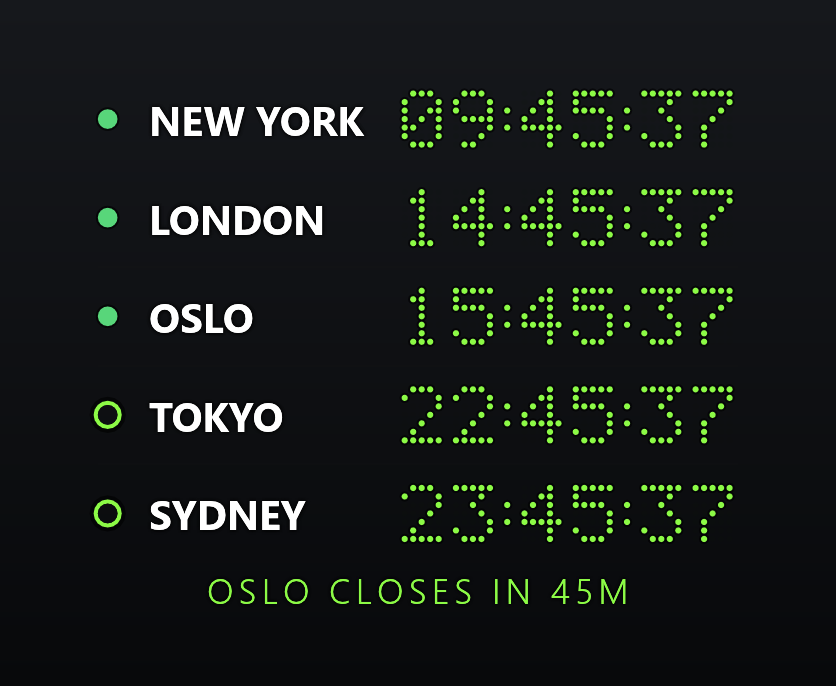
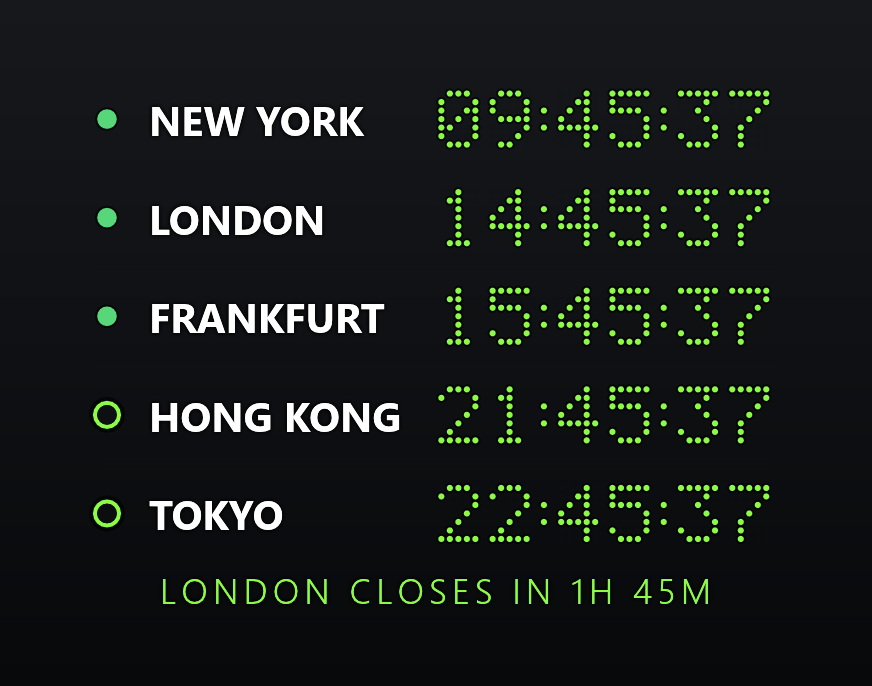
market: Default to the largest exchanges
Show New York, London, Frankfurt, Hong Kong and Tokyo on a new board.
Oslo and Sydney remain available from the Exchanges menu. The market
tests now use a fixed board of their own, so they no longer change
with the default.

diff --git a/src/market.rs b/src/market.rs
@@ -44,8 +44,8 @@ impl Market {
         Self::Tokyo,
         Self::Sydney,
     ];
-    /// One row per continent that trades.
-    pub const DEFAULT: [Self; 5] = [Self::NewYork, Self::London, Self::Oslo, Self::Tokyo, Self::Sydney];
+    /// The largest exchanges across the trading day, west to east.
+    pub const DEFAULT: [Self; 5] = [Self::NewYork, Self::London, Self::Frankfurt, Self::HongKong, Self::Tokyo];
 
     pub fn from_id(id: &str) -> Option<Self> {
         Self::ALL.into_iter().find(|m| m.id().eq_ignore_ascii_case(id))
@@ -374,6 +374,9 @@ mod tests {
     use super::*;
     use chrono::NaiveDate;
 
+    /// A fixed board for the tests, so they do not follow changes to the default.
+    const BOARD: [Market; 5] = [Market::NewYork, Market::London, Market::Oslo, Market::Tokyo, Market::Sydney];
+
     fn at(y: i32, mo: u32, d: u32, h: u32, mi: u32) -> NaiveDateTime {
         NaiveDate::from_ymd_opt(y, mo, d).unwrap().and_hms_opt(h, mi, 0).unwrap()
     }
@@ -469,7 +472,7 @@ mod tests {
     /// is in the afternoon, Asia has closed, Sydney is past midnight.
     #[test]
     fn the_board_shows_each_market_in_its_own_time() {
-        let b = board(at(2026, 9, 18, 14, 0), &Market::DEFAULT, H24);
+        let b = board(at(2026, 9, 18, 14, 0), &BOARD, H24);
         let rows: Vec<(&str, &str, Status)> = b.rows.iter().map(|r| (r.label, r.time.as_str(), r.status)).collect();
         assert_eq!(
             rows,
@@ -488,16 +491,16 @@ mod tests {
     #[test]
     fn the_caption_names_the_soonest_event_across_the_board() {
         // 14:00 UTC Friday: London closes 15:30 UTC, Oslo 14:30 UTC, New York 20:00 UTC.
-        let b = board(at(2026, 9, 18, 14, 0), &Market::DEFAULT, H24);
+        let b = board(at(2026, 9, 18, 14, 0), &BOARD, H24);
         assert_eq!(b.caption, "OSLO CLOSES IN 30M");
         // 14:31 UTC: Oslo is done, London is next.
-        let b = board(at(2026, 9, 18, 14, 31), &Market::DEFAULT, H24);
+        let b = board(at(2026, 9, 18, 14, 31), &BOARD, H24);
         assert_eq!(b.caption, "LONDON CLOSES IN 59M");
         // Saturday: the earliest Monday open is 00:00 UTC, shared by Tokyo and
         // Sydney (AEST, no daylight time until October); the first row wins a tie.
-        let b = board(at(2026, 9, 19, 12, 0), &Market::DEFAULT, H24);
+        let b = board(at(2026, 9, 19, 12, 0), &BOARD, H24);
         assert_eq!(b.caption, "TOKYO OPENS IN 1D 12H");
-        let b = board(at(2026, 9, 20, 23, 0), &Market::DEFAULT, H24);
+        let b = board(at(2026, 9, 20, 23, 0), &BOARD, H24);
         assert_eq!(b.caption, "TOKYO OPENS IN 1H");
         let b = board(at(2026, 9, 20, 23, 0), &[Market::Sydney, Market::Tokyo], H24);
         assert_eq!(b.caption, "SYDNEY OPENS IN 1H");
@@ -539,15 +542,15 @@ mod tests {
     #[test]
     fn the_board_ticks_by_the_minute_unless_seconds_are_shown() {
         let t = at(2026, 9, 18, 14, 0).with_second(37).unwrap().with_nanosecond(250_000_000).unwrap();
-        assert_eq!(board(t, &Market::DEFAULT, H24).until_change, Duration::from_millis(22_750));
-        assert_eq!(board(t, &Market::DEFAULT, style(ClockFormat::H24, true)).until_change, Duration::from_millis(750));
+        assert_eq!(board(t, &BOARD, H24).until_change, Duration::from_millis(22_750));
+        assert_eq!(board(t, &BOARD, style(ClockFormat::H24, true)).until_change, Duration::from_millis(750));
     }
 
     /// With codes the rows and the caption both use them, so the caption
     /// never names a market in a way the board does not.
     #[test]
     fn codes_name_the_rows_and_the_caption_alike() {
-        let b = board(at(2026, 9, 18, 14, 0), &Market::DEFAULT, CODES);
+        let b = board(at(2026, 9, 18, 14, 0), &BOARD, CODES);
         let labels: Vec<&str> = b.rows.iter().map(|r| r.label).collect();
         assert_eq!(labels, vec!["NYSE", "LSE", "OSE", "TSE", "ASX"]);
         assert_eq!(b.caption, "OSE CLOSES IN 30M");

diff --git a/src/app.rs b/src/app.rs
@@ -1324,10 +1324,10 @@ mod tests {
     #[test]
     fn toggling_from_the_default_board_appends_in_catalogue_order() {
         let mut markets = Market::DEFAULT.to_vec();
-        toggle_market(&mut markets, Market::HongKong);
+        toggle_market(&mut markets, Market::Oslo);
         assert_eq!(
             markets,
-            vec![Market::NewYork, Market::London, Market::Oslo, Market::HongKong, Market::Tokyo, Market::Sydney]
+            vec![Market::NewYork, Market::London, Market::Oslo, Market::Frankfurt, Market::HongKong, Market::Tokyo]
         );
     }
 }

diff --git a/src/shots.rs b/src/shots.rs
@@ -29,8 +29,7 @@ use crate::timer::Saved;
 const SCALE: f32 = 2.0;
 
 /// For the board: a Tuesday at 13:45:37 UTC, when New York has just opened,
-/// London and Oslo are trading, Oslo's close is the next thing to happen, and
-/// Asia is shut.
+/// London and Frankfurt are trading, and Hong Kong and Tokyo are shut.
 fn board_time() -> DateTime<Local> {
     Utc.with_ymd_and_hms(2026, 9, 22, 13, 45, 37).unwrap().with_timezone(&Local)
 }

diff --git a/README.md b/README.md
@@ -5,7 +5,7 @@ hardware clocks: a clock, a stopwatch, a countdown timer and a **world market bo
 stock exchanges are open right now.
 
 <p align="center">
-  <img src="docs/screenshots/board.png" width="420" alt="Market board: New York, London and Oslo trading, Tokyo and Sydney closed, in a green dot-matrix face">
+  <img src="docs/screenshots/board.png" width="420" alt="Market board: New York, London and Frankfurt trading, Hong Kong and Tokyo closed, in a green dot-matrix face">
   <img src="docs/screenshots/ring.gif" width="420" alt="Clock with the studio seconds ring filling up LED by LED">
 </p>
 <p align="center">
@@ -67,10 +67,11 @@ source in streaming software.
 
 The *Markets* mode shows one row per exchange with its local time and a status dot: green while
 trading, amber during a lunch break, hollow when closed. The line underneath says what happens
-next, such as "Oslo closes in 45m".
+next, such as "London closes in 1h 45m".
 
 The built-in exchanges are New York, London, Oslo, Frankfurt, Mumbai, Shanghai, Hong Kong, Tokyo
-and Sydney. Choose which ones to show under *Exchanges*, where you can also lay the board out on
+and Sydney. The board starts with New York, London, Frankfurt, Hong Kong and Tokyo; choose
+which ones to show under *Exchanges*, where you can also lay the board out on
 one line and show exchange codes (NYSE, LSE, OSE…) instead of city names.
 
 Opening hours are regular weekday sessions, including lunch breaks, with daylight saving time
